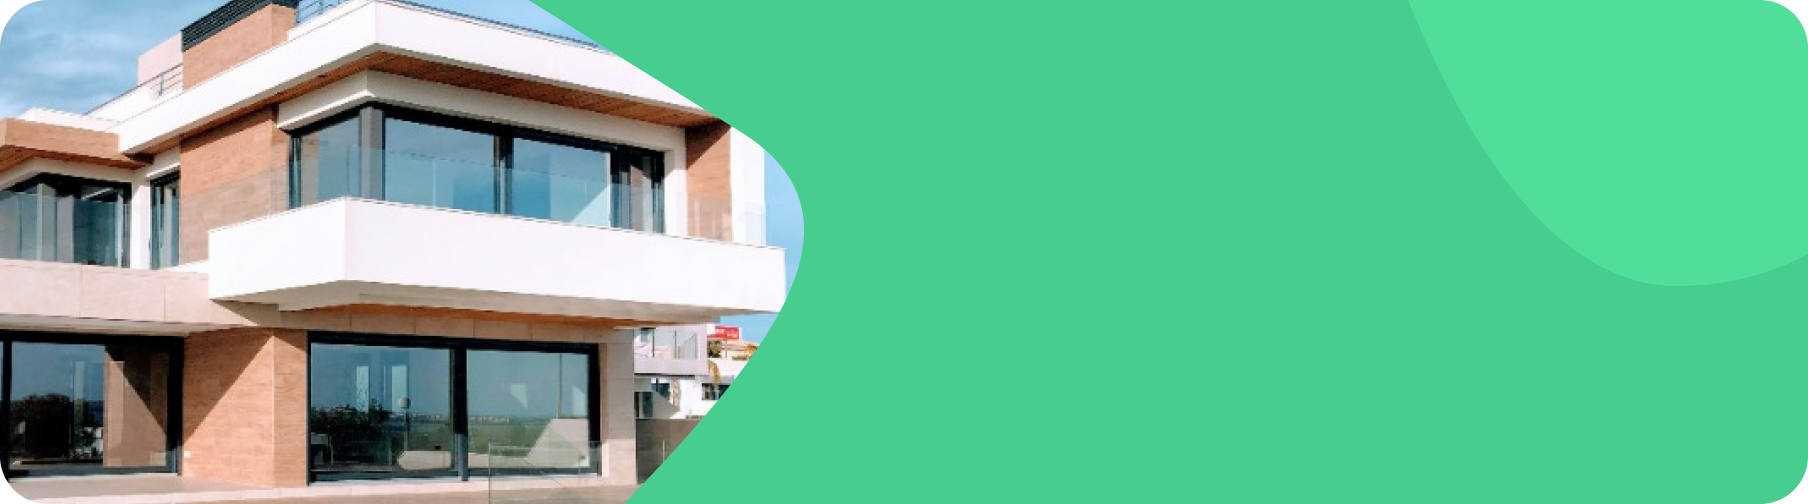
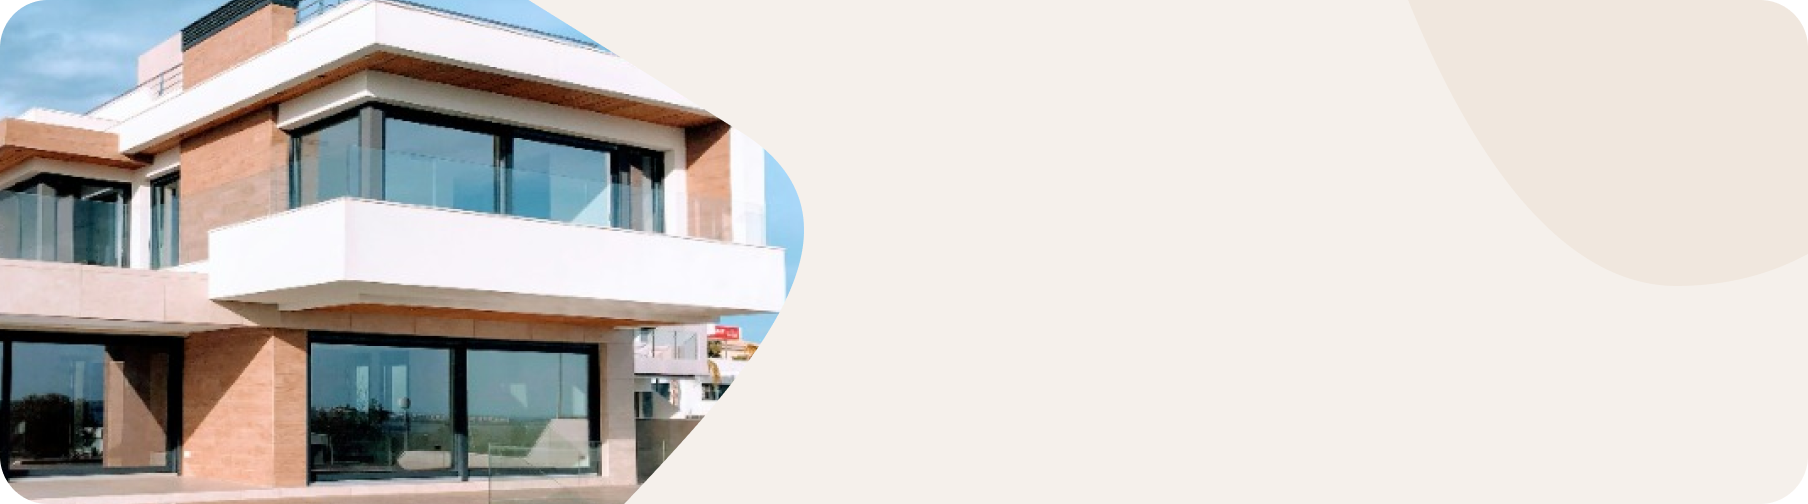
properties fix

diff --git a/src/sections/sale-site/properties/slider/desktop-slider/index.tsx b/src/sections/sale-site/properties/slider/desktop-slider/index.tsx
@@ -96,7 +96,7 @@ export default function DesktopSlider() {
                 zIndex: 1,
               }}
             />
-            <Box color={"grey.50"} pl={6.2} py={9} zIndex={2}>
+            <Box color={"grey.900"} pl={6.2} py={9} zIndex={2}>
               <Typography variant={"h5"} fontWeight={800}>
                 As Seen on TV
               </Typography>
@@ -106,7 +106,7 @@ export default function DesktopSlider() {
             </Box>
 
             <Box
-              color={"grey.50"}
+              color={"grey.900"}
               zIndex={2}
               display={"flex"}
               flexDirection={"column"}
@@ -165,7 +165,7 @@ export default function DesktopSlider() {
                 zIndex: 0,
               }}
             />
-            <Box color={"grey.50"} pl={"30%"} zIndex={2}>
+            <Box color={"grey.900"} pl={"30%"} zIndex={2}>
               <Chip
                 label={"New Project At Shares"}
                 sx={{

diff --git a/src/sections/sale-site/properties/slider/mobile-slider/index.tsx b/src/sections/sale-site/properties/slider/mobile-slider/index.tsx
@@ -136,11 +136,11 @@ export default function MobileSlider() {
             borderRadius={6}
             overflow={"hidden"}
             pt={7}
-            bgcolor={"primary.main"}
+            bgcolor={"common.bgLightTwo"}
             height={"80vh"}
           >
             <Box
-              color={"grey.50"}
+              color={"grey.900"}
               zIndex={2}
               textAlign={"center"}
               width={"100%"}
@@ -186,11 +186,11 @@ export default function MobileSlider() {
             borderRadius={6}
             overflow={"hidden"}
             pt={7}
-            bgcolor={"primary.main"}
+            bgcolor={"common.bgLightTwo"}
             height={"80vh"}
           >
             <Box
-              color={"grey.50"}
+              color={"grey.900"}
               zIndex={2}
               textAlign={"center"}
               width={"100%"}

diff --git a/src/theme/palette.tsx b/src/theme/palette.tsx
@@ -49,7 +49,7 @@ const INFO = {
 
 const GRADIENTS = {
   primary:
-    "linear-gradient(180deg, rgba(71, 206, 142, 0.8) 0%, rgba(71, 206, 142, 0.8) 52.5%, rgba(71, 206, 142, 0.8) 100%)",
+    "linear-gradient(180deg, rgba(245, 240, 235, 0.8) 0%, rgba(245, 240, 235, 0.8) 52.5%, rgba(245, 240, 235, 0.8) 100%)",
   secondary: "linear-gradient(90deg, #FFF 0%, rgba(255, 255, 255, 0.00) 100%)",
 };
 
